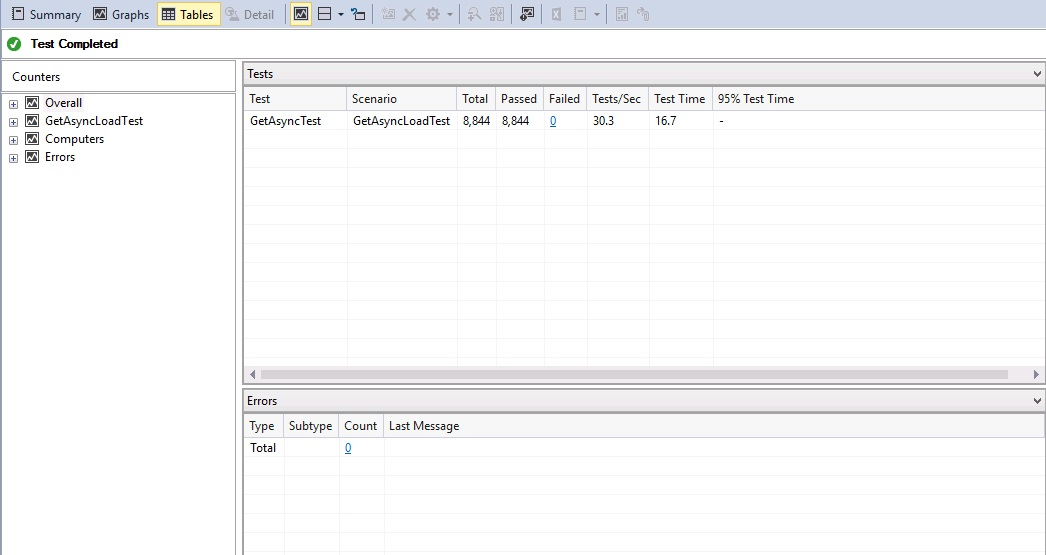
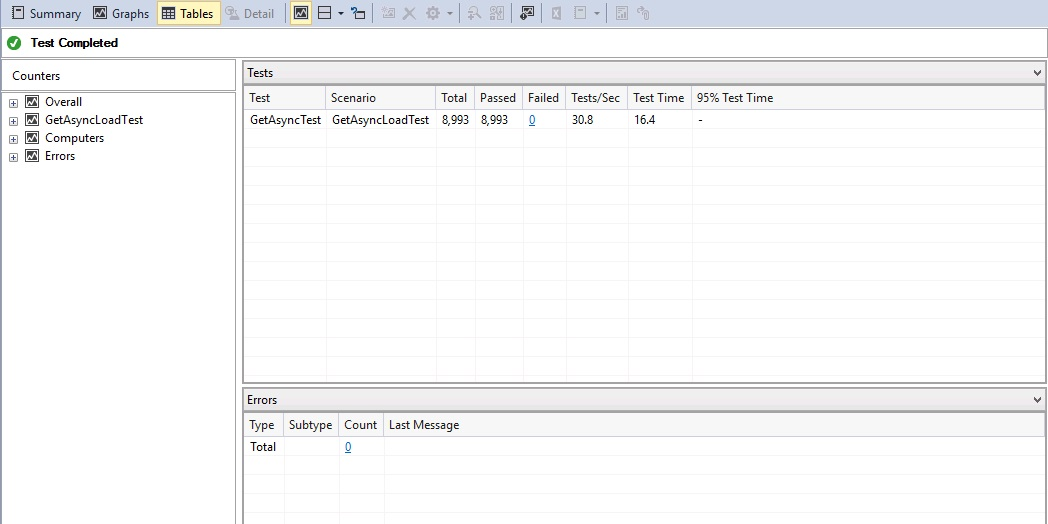
Incorporated feedback from Masashi and review meeting

Changed region(s): [[0.0, 0.0, 1.0, 1.0]]

diff --git a/NoCaching.md b/NoCaching.md
@@ -55,31 +55,33 @@ Performing load testing can help to highlight any problems. Load-testing should 
 
 The following output was generated from load-testing the CachingDemo sample application without using caching. The load-test simulates 500 concurrent users performing a series of HTTP GET operations targeted at 99 different resources (`Person 1` through `Person 99`). The test runs for 5 minutes, generating many thousands of requests.
 
-The first graph shows the performance summary. In this graph, the average response time for each request was 16.42 seconds, and after the initial warm-up phase of the test the CPU utilization was relatively low (approximately 5%); this is because much of the time the tests are waiting for the I/O caused by repeatedly fetching data to complete:
+The following graph shows the throughput summary of the load-test. In this graph, the application was able to support 29.98 requests per second on average, and each request was successful:
 
 ![Performance load-test results for the uncached scenario][Performance-Load-Test-Results-Uncached]
 
-The second graph illustrates the response times for each individual request. It shows the details for each request, and confirms that the average response time was approximately 16.5 seconds:
+Downloading the report and viewing the tabular summary indicates that in 5 minutes, 500 users were able to make 8993 successful requests, and each request took on average 16.4 seconds to complete:
 
-![Page response times for the uncached scenario][Page-Response-Times-Uncached]
+![Performance summary for the uncached scenario][Performance-Summary-Uncached]
 
-Finally, the tabular summary of the load-test indicates that in 5 minutes, 500 users were able to make 8844 successful requests:
-
-![Performance summary for the uncached scenario ][Performance-Summary-Uncached]
-
+The average response time is relatively long. If a business operation involves accessing three or four entities a user may be forced to wait for a minute for the operation to complete. Additionally, the volume of requests processed may fall below that required for a system that may need to support thousands of concurrent users.
+ 
 ### Using data access statistics
 
-Examining data access statistics and other information provided by a data store acting as the repository might show the same queries being repeated frequently. For example, Microsoft SQL Server provides the `sys.dm_exec_query_stats` management view which contains statistical information for recently executed queries. The text for each query is available in the `sys.dm_exec-query_plan` view. You can use the following SQL query to determine the frequency with which queries are performed:
+Examining data access statistics and other information provided by a data store acting as the repository can yield some useful information, such as which queries being repeated most frequently. For example, Microsoft SQL Server provides the `sys.dm_exec_query_stats` management view which contains statistical information for recently executed queries. The text for each query is available in the `sys.dm_exec-query_plan` view. You can use a tool such as SQL Server Management Studio to run the following SQL query and determine the frequency with which queries are performed:
 
 **SQL**
 ```SQL
 SELECT UseCounts, Text, Query_Plan
 FROM sys.dm_exec_cached_plans 
 CROSS APPLY sys.dm_exec_sql_text(plan_handle)
-CROSS APPLY sys.dm_exec_query_plan(plan_hand
+CROSS APPLY sys.dm_exec_query_plan(plan_handle)
 ```
 
-In the [CachingDemo sample application][fullDemonstrationOfProblem], the following query corresponds to the request generated by the Entity Framework code shown earlier:
+The `UseCount` column in the results indicates how frequently each query is run. In the following image, the third query has been run 256049 times; this is significantly more than any other query:
+
+![Results of querying the dynamic management views in SQL Server Management Server][Dynamic-Management-Views]
+
+The text of this query is:
 
 **SQL**
 ```SQL
@@ -91,7 +93,7 @@ FROM [Person].[Person] AS [Extent1]
 WHERE [Extent1].[BusinessEntityId] = @p__linq__0
 ```
 
-This query is repeated each time the `GetByIdAsync` method runs. The value of the `id` parameter passed in to this method replaces the `p__linq__0` parameter in the SQL query.
+In the [CachingDemo sample application][fullDemonstrationOfProblem] shown earlier this query is the result of the request generated by the Entity Framework. This query is repeated each time the `GetByIdAsync` method runs. The value of the `id` parameter passed in to this method replaces the `p__linq__0` parameter in the SQL query.
 
 ### Instrumenting the application
 
@@ -107,7 +109,7 @@ In this example, `Person\Get` accounts for 68.8% of all requests. You can drill 
 
 ### Profiling the application
 
-If you require a deeper analysis of the application you can use a profiler such as [PerfView][PerfView] or [ANTS][ANTS] to capture and examine low-level performance information such as I/O request rates, memory usage, and CPU utilization. Performing a detailed profiling of the system may reveal a large number of requests to a data store or service, or repeated processing that performs the same calculation. You can sort the profile data by the number of requests to help identify candidate information for caching. Profiling might not provide the same data under the same load as a production system, and the results can be skewed as a result of the additional profiling overhead. However, you may be able to adjust the results to take this overhead into account.
+If you require a deeper analysis of the application you can use a profiler such as [PerfView][PerfView] or [ANTS][ANTS] to capture and examine low-level performance information such as I/O request rates, memory usage, and CPU utilization. Performing a detailed profiling of the system may reveal a large number of requests to a data store or service, or repeated processing that performs the same calculation. You can sort the profile data by the number of requests to help identify candidate information for caching. Note that there may be some restrictions on the environment in which you can perform profiling. For example, you may not be able to profile an application running as an Azure Web site. In these situations, you will need to profile the application running locally. Furthermore, profiling might not provide the same data under the same load as a production system, and the results can be skewed as a result of the additional profiling overhead. However, you may be able to adjust the results to take this overhead into account.
 
 ## <a name="HowToCorrectTheProblem"></a>How to correct the problem
 You can use several strategies to implement caching. The most popular is the *on-demand* or [*cache-aside*][cache-aside-pattern] strategy. In this strategy, the application attempts to retrieve data from the cache. If the data is not present, the application retrieves it from the data store and adds it to the cache so it will be found next time. To prevent the data from becoming stale, many caching solutions support configurable timeouts, allowing data to automatically expire and be removed from the cache after a specified interval. If the application modifies data, it should write the change directly to the data store and remove the old value from the cache; it will be retrieved and added to the cache the next time it is required. 
@@ -175,51 +177,34 @@ You should consider the following points concerning caching:
 ## Consequences of the solution
 Implementing caching may lead to a lack of immediate consistency; applications may not always read the most recent version of a data item. Applications should be designed around the principle of eventual consistency and tolerate being presented with old data. Applying time-based eviction policies to the cache can help to prevent cached data from becoming too stale, but any such policy must be balanced against the expected volatility of the data; data that is highly static and read often can reside in the cache for longer periods than dynamic information that may become stale quickly and which should be evicted more frequently.
 
-To determine the efficacy of any caching strategy, you should repeat load-testing after incorporating a cache and compare the results to those generated before the cache was added. The following results are the output generated by load testing the CachingDemo sample solution with caching enabled. The performance summary graph now shows that the average response time for each request was 0.38 seconds. This is an enormous improvement (by a factor of 40) over the average response time for the uncached example. Also, the CPU utilization was much higher throughout the test as less time was being spent waiting for I/O.:
+To determine the efficacy of any caching strategy, you should repeat load-testing after incorporating a cache and compare the results to those generated before the cache was added. The following results are the output generated by load testing the CachingDemo sample solution with caching enabled. The throughput summary graph now shows that application was now able to perform 880.33 requests per second. This is an enormous improvement (by a factor of 30) over the throughput for the uncached example:
 
 ![Performance load-test results for the cached scenario][Performance-Load-Test-Results-Cached]
-
-However, response times should not be considered the only measure of success. The increased volume of requests may have an adverse affect on a service, resulting in transient availability errors if it becomes overloaded at any point. The tabular summary of the load-test indicates that although the system now handled 300,000 requests in 5 minutes (compared to 8844 previously), a large proportion of these requests failed, and only 53,902 were successful:
+ 
+However, the number of requests per second should not be considered the only measure of success. The increased volume of requests may have an adverse affect on a service, resulting in transient availability errors if it becomes overloaded at any point. The throughput graph indicates that many errors occured, and the tabular summary shows that although the system now handled 264,100 requests in 5 minutes (compared to 8993 previously), a large proportion of these requests failed and only 87.084 were successful:
 
 ![Performance summary for the cached scenario][Performance-Summary-Cached]
 
-The excess traffic caused a large number of HTTP 403 (Forbidden) messages, indicating that the web site hosting the service was temporarily unavailable. **Therefore, you should be prepared to scale the web site to support the additional traffic.**
+The excess traffic caused a large number of HTTP 403 (Forbidden) and HTTP 500 (Internal Server Error) messages, indicating that the web site hosting the service was temporarily unavailable. **This is a common concern; increasing the potential throughput of the application can require that the infrastructure on which the application runs needs to be scaled.**
 
 ## Related resources
 - [The Cache-Aside Pattern][cache-aside-pattern].
 
 - [Data Consistency guidance][data-consistency-guidance].
 
-- [API Implementation guidance][API-implementation-guidance].
+- [Caching Guidance][caching-guidance].
 
 - [Azure Cache documentation][Azure-cache].
 
-- [The StackExchange.Redis client library][StackExchange]
-
-- [Microsoft Application Insights][AppInsights]
-
-- [NLog logging for the .NET Framework][Nlog]
-
-- [Apache log4net logging for the .NET runtime][Log4Net]
-
-- [New Relic and Windows Azure][NewRelic]
-
-- [AppDynamics Windows Azure monitoring][AppDynamics]
-
-- [PerfView performance analysis tool][PerfView]
-
-- [ANTS performance profiler][ANTS]
-
-- [Visual Studio Online load testing in the cloud][VisualStudioOnline]
 
 [fullDemonstrationOfProblem]: http://github.com/mspnp/performance-optimization/xyz
 [fullDemonstrationOfSolution]: http://github.com/mspnp/performance-optimization/123
 [AdventureWorks2012]:http://msftdbprodsamples.codeplex.com/releases/view/37304
 [StackExchange]: https://github.com/StackExchange/StackExchange.Redis
 [cache-aside-pattern]: https://msdn.microsoft.com/library/dn589799.aspx
-[data-consistency-guidance]: http://LINK-TO-CONSISTENCY-GUIDANCE
+[data-consistency-guidance]: http://LINK-TO-CONSISTENCY-GUIDANCE-WHEN-PUBLISHED
+[caching-guidance]: https://msdn.microsoft.com/library/dn589802.aspx
 [Azure-cache]: http://azure.microsoft.com/documentation/services/cache/
-[API-implementation-guidance]: http://LINK-TO-API-IMPLEMENTATION-GUIDANCE
 [AppInsights]: http://azure.microsoft.com/documentation/articles/app-insights-get-started/
 [NLog]: http://nlog-project.org
 [Log4Net]: http://logging.apache.org/log4net
@@ -230,8 +215,8 @@ The excess traffic caused a large number of HTTP 403 (Forbidden) messages, indic
 [VisualStudioOnline]: http://www.visualstudio.com/get-started/load-test-your-app-vs.aspx
 [AppInsights-server-requests]: http://i.imgur.com/4vUXXSb.jpg
 [AppInsights-GET-Person-10-requests]: http://i.imgur.com/gcJhG2m.jpg
-[Performance-Load-Test-Results-Uncached]: http://i.imgur.com/dMi4sKD.jpg
-[Page-Response-Times-Uncached]: http://i.imgur.com/k2alJTO.jpg
-[Performance-Summary-Uncached]: http://i.imgur.com/ceZLuCg.jpg
-[Performance-Load-Test-Results-Cached]: http://i.imgur.com/tNHaAYa.jpg
-[Performance-Summary-Cached]: http://i.imgur.com/chA8iDu.jpg
+[Performance-Load-Test-Results-Uncached]: http://i.imgur.com/Vgl9W6Q.jpg
+[Performance-Summary-Uncached]: http://i.imgur.com/4qDmxUG.jpg
+[Dynamic-Management-Views]: http://i.imgur.com/nNF320z.jpg
+[Performance-Load-Test-Results-Cached]: http://i.imgur.com/oqB2QG5.jpg
+[Performance-Summary-Cached]: http://i.imgur.com/4su5ScO.jpg
